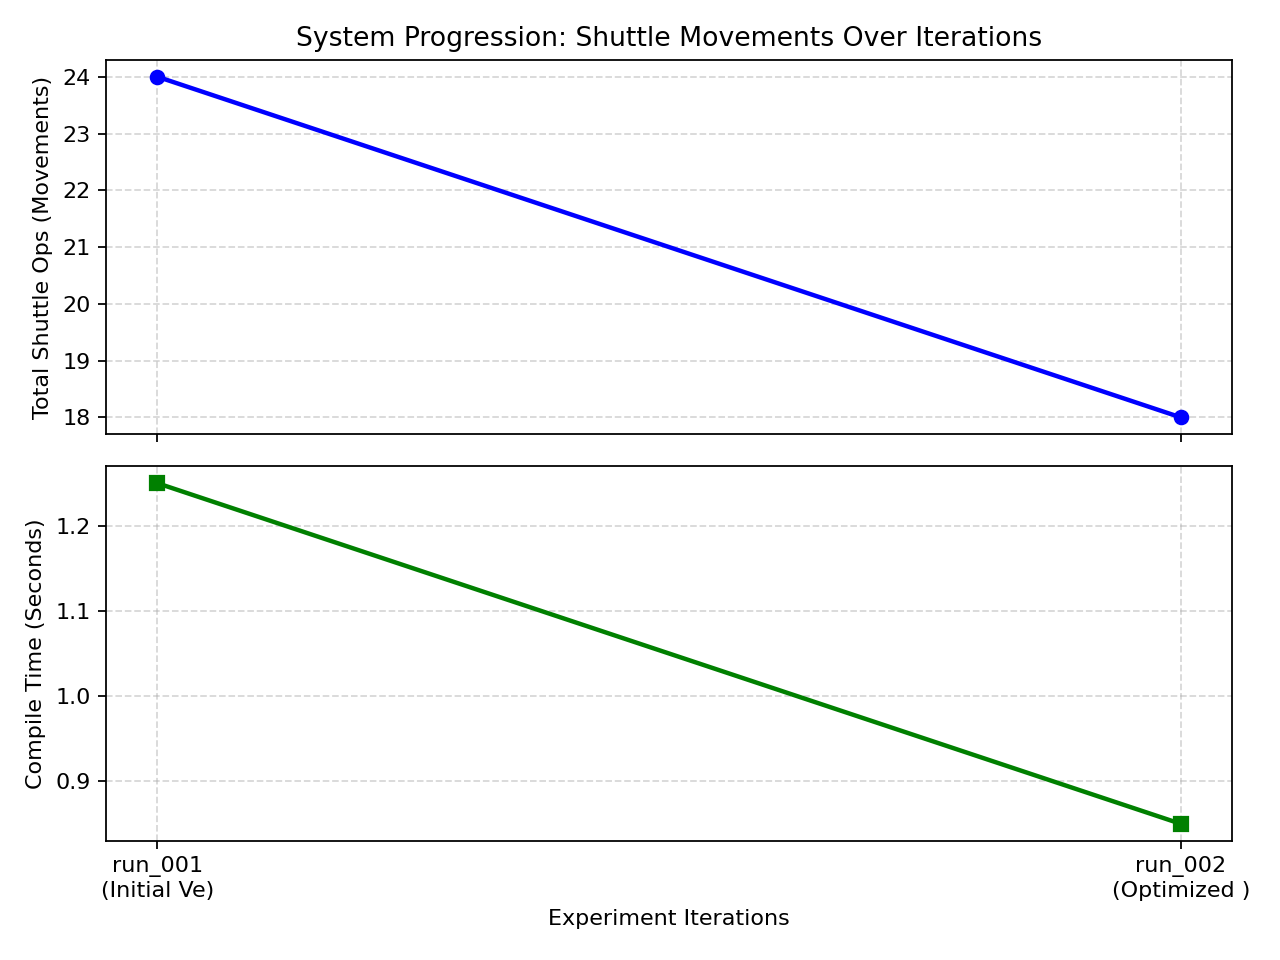
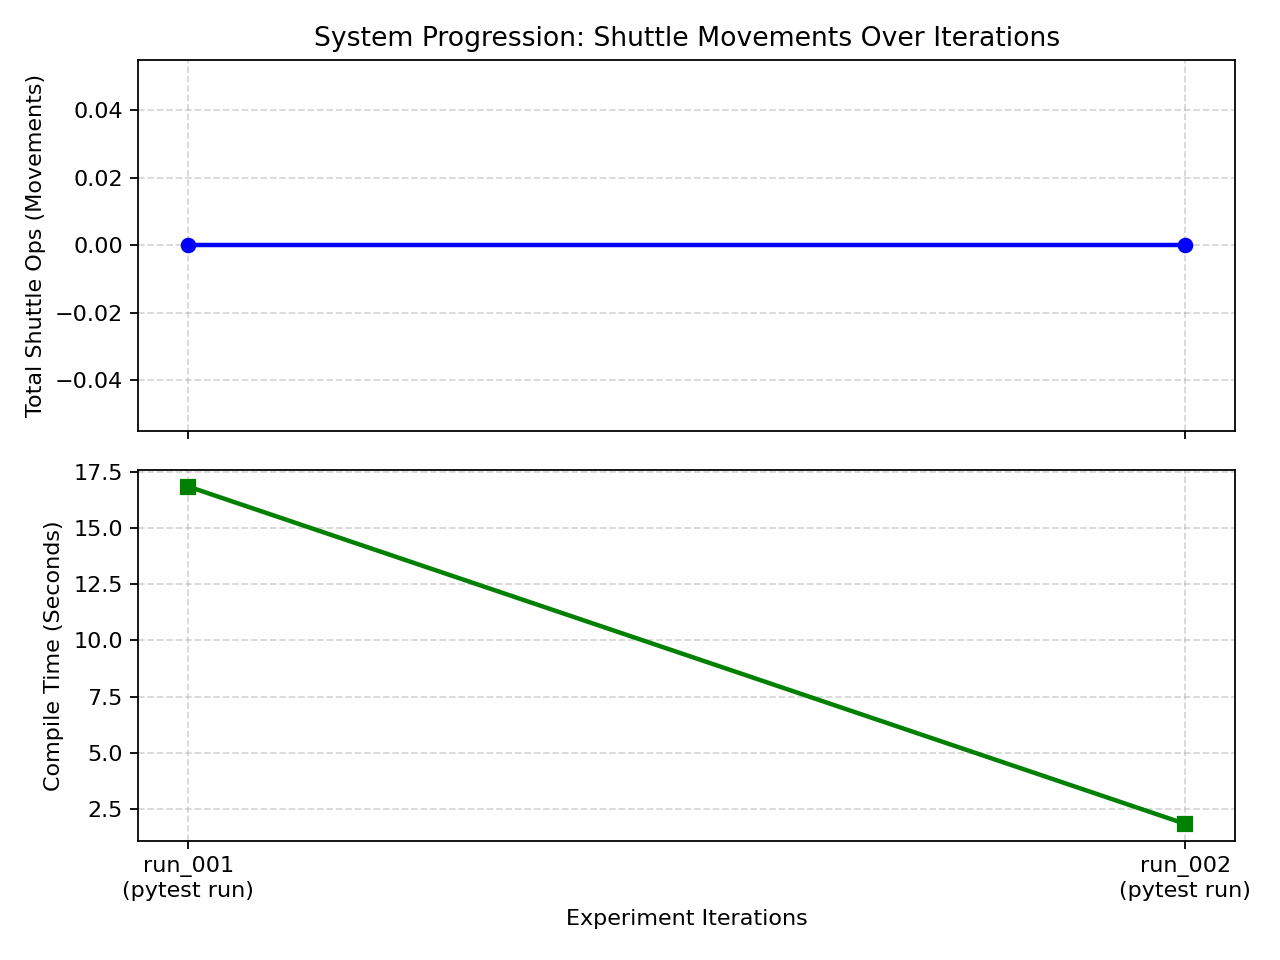
fix: enforce window max size capping and update experiment tracking logs

diff --git a/src/congestion_handler.py b/src/congestion_handler.py
@@ -580,21 +580,14 @@ class CongestionHandler:
         size_capped = False
 
         if len(window_nodes) > self.window_max_size:
-            # Trim: keep core path + parking spots, then add BFS greedily
+            # Trim: prioritize core path nodes, then parking spots, then outer BFS nodes
             size_capped = True
-            trimmed: Set[Any] = core_nodes | parking_spots
-            # Fill remaining budget with BFS nodes closest to blocked
-            remaining = self.window_max_size - len(trimmed)
-            if remaining > 0:
-                sorted_bfs = sorted(
-                    bfs_nodes - trimmed,
-                    key=lambda n: min(
-                        nx.shortest_path_length(G, bp, n)
-                        for bp in blocked
-                        if bp in G and nx.has_path(G, bp, n)
-                    ) if blocked else 0,
-                )
-                trimmed.update(sorted_bfs[:remaining])
+            trimmed: Set[Any] = set()
+            priority_order = list(core_nodes) + [n for n in parking_spots if n not in core_nodes] + [n for n in bfs_nodes if n not in core_nodes and n not in parking_spots]
+            for node in priority_order:
+                if len(trimmed) >= self.window_max_size:
+                    break
+                trimmed.add(node)
             window_nodes = trimmed
 
         # ---- Classify ions -----------------------------------------------
